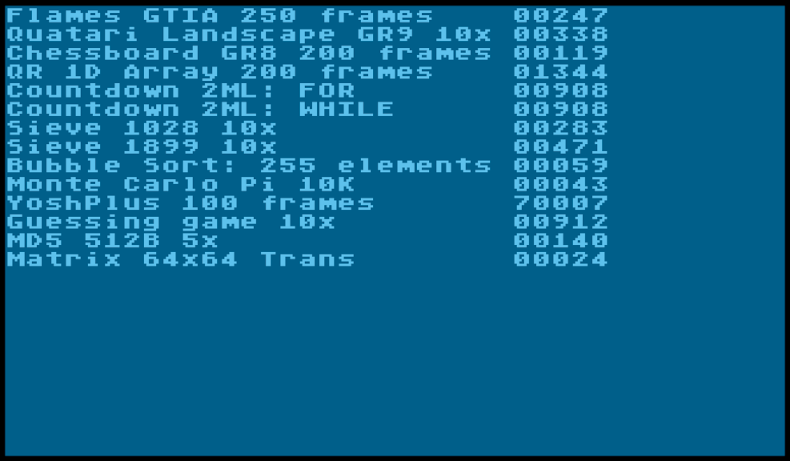
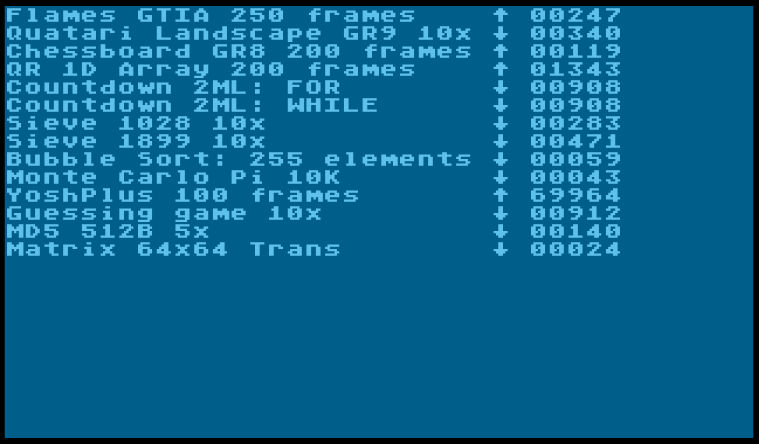
Add arrow to benchname to indicate if high/low is better

diff --git a/lib/counter.c b/lib/counter.c
@@ -6,8 +6,10 @@
 #include "counter.h"
 #include "gr.h"
 
+#define BENCHNAME_LEN 28
+
 // The current benchmark's name - has to be 1 larger than the actual max string (25) for the 0 to terminate the string.
-char benchName[26];
+char benchName[BENCHNAME_LEN];
 
 // Where to put the next score, start at scoreLms, then increment row by row when printing
 char *currentPrintPosition = scoreLms;
@@ -63,9 +65,9 @@ void prepareCounter(char *name) {
 	*CHBASE = >(charset + 0x400);
 
 	// copy name into benchName, preserving the original string
-	memset(benchName, 0, 26);
+	memset(benchName, 0, BENCHNAME_LEN);
 	word len = strlen(name);
-	if (len > 25) len = 25; // ensure there's a zero at the end
+	if (len > (BENCHNAME_LEN - 1)) len = (BENCHNAME_LEN - 1); // ensure there's a zero at the end
 	memcpy(benchName, name, len);
 	// change and fix the atascii string to be displayable in our charset where spaces are at 0xfe, and rest have to be antic codes.
 	strToCode(benchName);
@@ -84,12 +86,12 @@ void counterPrint() {
 	char *position = currentPrintPosition;
 	
 	// benchName was changed to be displayed on 2nd charset where spaces are 0xfe, so change them back
-	for (char i: 0..24) {
+	for (char i: 0..(BENCHNAME_LEN - 1)) {
 		if (*(benchName + i) == 0xfe) *(benchName + i) = 0;
 	}
 
-	memcpy(position, benchName, 25);
-	position += 26;
+	memcpy(position, benchName, BENCHNAME_LEN - 1);
+	position += BENCHNAME_LEN;
 	for(char i: 0..4) {
 		// this adjusts for the charset differences. counterLms has binary 0 for "0",
 		// but to display in original charset, add 16 to get to antic codes 16..25 for "0" to "9"

diff --git a/benches.lib/montecarlo.c b/benches.lib/montecarlo.c
@@ -6,7 +6,7 @@ word * const squares = 0x6000; // reuse the sieve data area
 
 void runMontecarlo() {
 	memset(lms, 0, 0x1ff0);
-	prepareCounter("Monte Carlo Pi 10K");
+	prepareCounter("Monte Carlo Pi 10K        \x1d");
 	init_squares();
 
 	counterOn(1);

diff --git a/benches.lib/countdownWhile.c b/benches.lib/countdownWhile.c
@@ -6,7 +6,7 @@
 
 void runCountdownWhile() {
 	memset(lms, 0, 0x1ff0);
-	prepareCounter("Countdown 2ML: WHILE");
+	prepareCounter("Countdown 2ML: WHILE      \x1d");
 	counterOn(1);
 	benchmarkCountdownWhile();
 	counterOn(0);

diff --git a/benches.lib/chessboard.c b/benches.lib/chessboard.c
@@ -6,7 +6,7 @@
 
 void runChessboard() {
 	memset(lms, 0, 0x1ff0);
-	prepareCounter("Chessboard GR8 200 frames");
+	prepareCounter("Chessboard GR8 200 frames \x1c");
 	counterOn(1);
 	benchmarkChessboard();
 	counterOn(0);

diff --git a/benches.lib/yoshplus.c b/benches.lib/yoshplus.c
@@ -3,7 +3,7 @@
 
 void runYoshplus() {
 	memset(lms, 0, 0x1ff0);
-	prepareCounter("YoshPlus 100 frames");
+	prepareCounter("YoshPlus 100 frames       \x1c");
 	counterOn(1);
 	char c = benchmarkYoshplus();
 	counterOn(0);

diff --git a/benches.lib/landscape.c b/benches.lib/landscape.c
@@ -7,7 +7,7 @@
 
 void runLandscape() {
 	memset(lms, 0, 0x1ff0);
-	prepareCounter("Quatari Landscape GR9 10x");
+	prepareCounter("Quatari Landscape GR9 10x \x1d");
 	counterOn(1);
 	benchmarkLandscape();
 	counterOn(0);

diff --git a/benches.lib/countdownFor.c b/benches.lib/countdownFor.c
@@ -6,7 +6,7 @@
 
 void runCountdownFor() {
 	memset(lms, 0, 0x1ff0);
-	prepareCounter("Countdown 2ML: FOR");
+	prepareCounter("Countdown 2ML: FOR        \x1d");
 	counterOn(1);
 	benchmarkCountdownFor();
 	counterOn(0);

diff --git a/benches.lib/bsort.c b/benches.lib/bsort.c
@@ -5,7 +5,7 @@
 
 void runBsort() {
 	memset(lms, 0, 0x1ff0);
-	prepareCounter("Bubble Sort: 255 elements");
+	prepareCounter("Bubble Sort: 255 elements \x1d");
 	counterOn(1);
 	benchmarkBsort();
 	counterOn(0);

diff --git a/benches.lib/sieve1028.c b/benches.lib/sieve1028.c
@@ -9,7 +9,7 @@
 
 void runSieve1028() {
 	memset(lms, 0, 0x1ff0);
-	prepareCounter("Sieve 1028 10x");
+	prepareCounter("Sieve 1028 10x            \x1d");
 
 	counterOn(1);
 	word count = benchmarkSieve1028();

diff --git a/benches.lib/sieve1899.c b/benches.lib/sieve1899.c
@@ -9,7 +9,7 @@
 
 void runSieve1899() {
 	memset(lms, 0, 0x1ff0);
-	prepareCounter("Sieve 1899 10x");
+	prepareCounter("Sieve 1899 10x            \x1d");
 
 	counterOn(1);
 	word count = benchmarkSieve1899();

diff --git a/benches.lib/fire.c b/benches.lib/fire.c
@@ -8,7 +8,7 @@
 
 void runFire() {
 	memset(lms, 0, 0x1ff0);
-	prepareCounter("Flames GTIA 250 frames");
+	prepareCounter("Flames GTIA 250 frames    \x1c");
 	counterOn(1);
 	benchmarkFire();
 	counterOn(0);

diff --git a/benches.lib/qr1d.c b/benches.lib/qr1d.c
@@ -6,7 +6,7 @@
 
 void runQR1d() {
 	memset(lms, 0, 0x1ff0);
-	prepareCounter("QR 1D Array 200 frames");
+	prepareCounter("QR 1D Array 200 frames    \x1c");
 	counterOn(1);
 	benchmarkQR1d();
 	counterOn(0);
